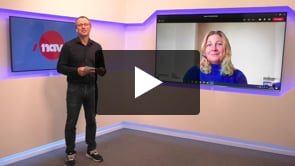
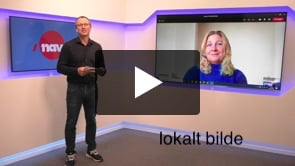
Hente thumbnails gjennom proxy

Changed region(s): [[0.5186, 0.7831, 0.8237, 0.8735]]

diff --git a/src/kurs/vimeo-api.ts b/src/kurs/vimeo-api.ts
@@ -1,8 +1,9 @@
 import { getRestStatus, RestRessurs, RestStatus } from "./api-utils";
 import { BASE_URL } from "../utils/fetch-utils";
 
-export const VIMEO_API_HOST = BASE_URL + "/api/video"; // "https://api.vimeo.com" | "proxy"
-export const SHOWCASE_PATH = "users/94865899/albums/6728595/videos";
+export const SHOWCASE_PATH =
+  BASE_URL + "/api/video/users/94865899/albums/6728595/videos";
+export const THUMBNAILS_PATH = BASE_URL + "/api/thumbnails";
 
 interface ShowcaseDto {
   total: number;
@@ -49,7 +50,7 @@ export interface Video {
   createdTime: Date;
   modifiedTime: Date;
   releaseTime: Date;
-  pictureLink: string | undefined;
+  thumbnailLink: string | undefined;
 }
 
 export type RestVideoliste = RestRessurs<Video[]>;
@@ -65,13 +66,13 @@ const mapTilVideo = (videoDto: VideoDto): Video => ({
   createdTime: new Date(videoDto.created_time),
   modifiedTime: new Date(videoDto.modified_time),
   releaseTime: new Date(videoDto.release_time),
-  pictureLink: videoDto.pictures.sizes.find(
+  thumbnailLink: videoDto.pictures.sizes.find(
     (size: SizeDto) => size.width === 295
   )?.link_with_play_button,
 });
 
 export const hentRestVideoliste = async (): Promise<RestVideoliste> => {
-  const response = await fetch(`${VIMEO_API_HOST}/${SHOWCASE_PATH}`, {
+  const response = await fetch(SHOWCASE_PATH, {
     method: "get",
   });
   const restStatus = getRestStatus(response.status);
@@ -92,3 +93,6 @@ export const hentRestVideoliste = async (): Promise<RestVideoliste> => {
   }
   return { status: RestStatus.Feil };
 };
+
+export const getUrlTilThumbnail = (video: Video): string | undefined =>
+  video.thumbnailLink?.replace("https://i.vimeocdn.com", THUMBNAILS_PATH);

diff --git a/src/komponenter/VideoPanel/Videolenke/Videolenke.tsx b/src/komponenter/VideoPanel/Videolenke/Videolenke.tsx
@@ -1,6 +1,6 @@
 import React, { FunctionComponent } from "react";
 import { Normaltekst } from "nav-frontend-typografi";
-import { Video } from "../../../kurs/vimeo-api";
+import {getUrlTilThumbnail, Video} from "../../../kurs/vimeo-api";
 import BEMHelper from "../../../utils/bem";
 import "./Videolenke.less";
 
@@ -8,20 +8,15 @@ interface Props {
   video: Video;
 }
 
-const getBildeUrl = (urlFraVimeo: string | undefined): string | undefined =>
-  urlFraVimeo?.replace(
-    "https://i.vimeocdn.com",
-    "/forebygge-sykefravaer/api/thumbnails"
-  );
 
 export const Videolenke: FunctionComponent<Props> = (props) => {
   const cls = BEMHelper("videolenke");
   const video = props.video;
 
-  return (
+    return (
     <a className={cls.className} href={video.link}>
       <img
-        src={getBildeUrl(video.pictureLink)}
+        src={getUrlTilThumbnail(video)}
         alt="Forhåndsvisning av video"
         className={cls.element("bilde")}
       />

diff --git a/craco.config.js b/craco.config.js
@@ -3,18 +3,14 @@ const decoratorhtmlwebpackplugin = require("./plugins/decoratorhtmlwebpackplugin
 const path = require("path");
 
 module.exports = {
-  webpack: {
-    alias: {
-      "@": path.resolve(__dirname, "src/"),
-      "@/komponenter": path.resolve(__dirname, "src/komponenter/"),
-      "@/assets": path.resolve(__dirname, "src/assets/"),
+  devServer: {
+    before: (app) => {
+      app.get("/forebygge-sykefravaer/api/thumbnail*", (req, res) =>
+        res.sendFile("videoThumbnail.jpg", {
+          root: path.join(__dirname, "./src/mocking/"),
+        })
+      );
     },
-    devserver: {
-      open: false,
-    },
-  },
-  devserver: {
-    open: false,
   },
   eslint: {
     enable: true,

diff --git a/src/mocking/mock.ts b/src/mocking/mock.ts
@@ -9,12 +9,10 @@ import { kurslisteMock } from "./kursliste";
 import { showcaseMock } from "./showcase";
 import { KURSOVERSIKT_API_PATH } from "../kurs/kurs-api";
 import { SHOWCASE_PATH } from "../kurs/vimeo-api";
-import bilde from "./videoThumbnail.jpg";
 
 const mock = {
   kursliste: true,
   showcase: true,
-  bilder: true,
 };
 
 const mockGetAndLog = (
@@ -48,10 +46,6 @@ if (mock.kursliste) {
 
 if (mock.showcase) {
   mockGetAndLog(SHOWCASE_PATH, showcaseMock);
-}
-
-if (mock.bilder) {
-  mockGetAndLog("https://i.vimeocdn.com/filter/overlay*", bilde);
 }
 
 fetchMock.spy();

diff --git a/src/komponenter/VideoPanel/VideoPanel.tsx b/src/komponenter/VideoPanel/VideoPanel.tsx
@@ -26,8 +26,8 @@ export const VideoPanel: FunctionComponent<Props> = ({ restVideoliste }) => {
     <>
       <Element className={cls.element("tittel")}>Siste webinarer</Element>
       <div className={cls.element("videoer")}>
-        {videoer.slice(0, ANTALL_VIDEOER_SOM_SKAL_VISES).map((video: Video) => (
-          <Videolenke video={video} />
+        {videoer.slice(0, ANTALL_VIDEOER_SOM_SKAL_VISES).map((video: Video, index) => (
+          <Videolenke video={video} key={index} />
         ))}
       </div>
     </>
